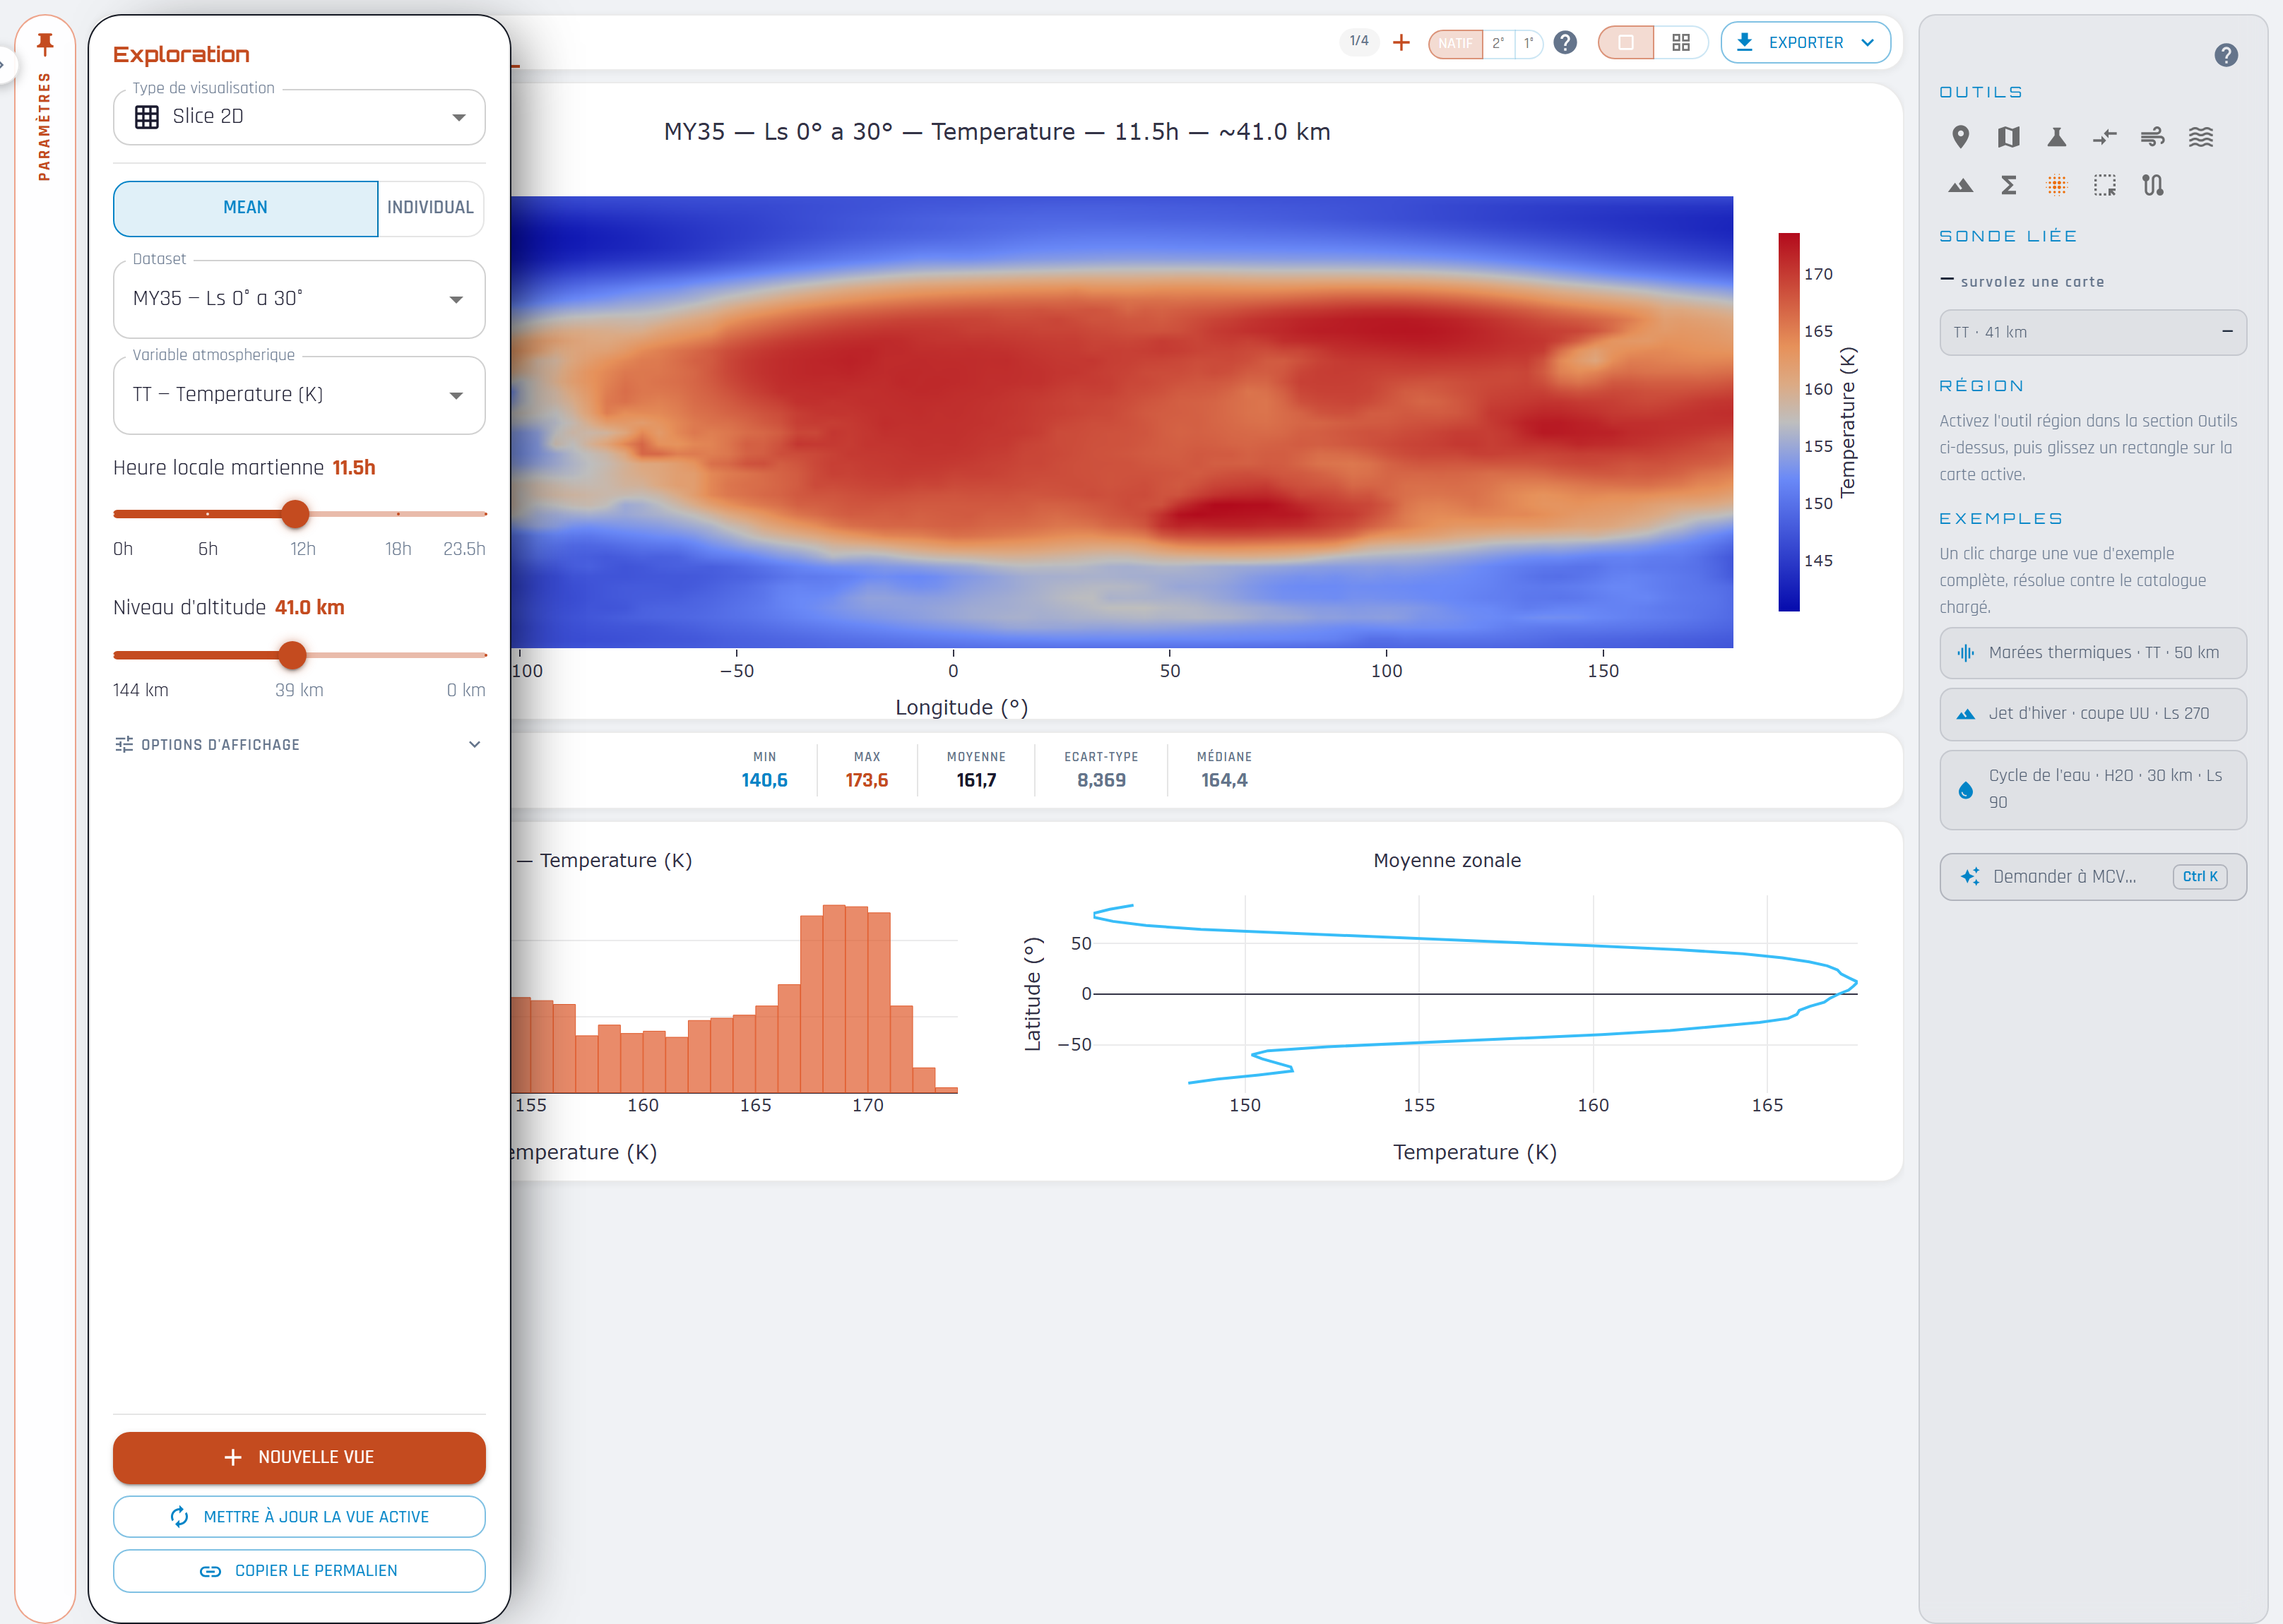
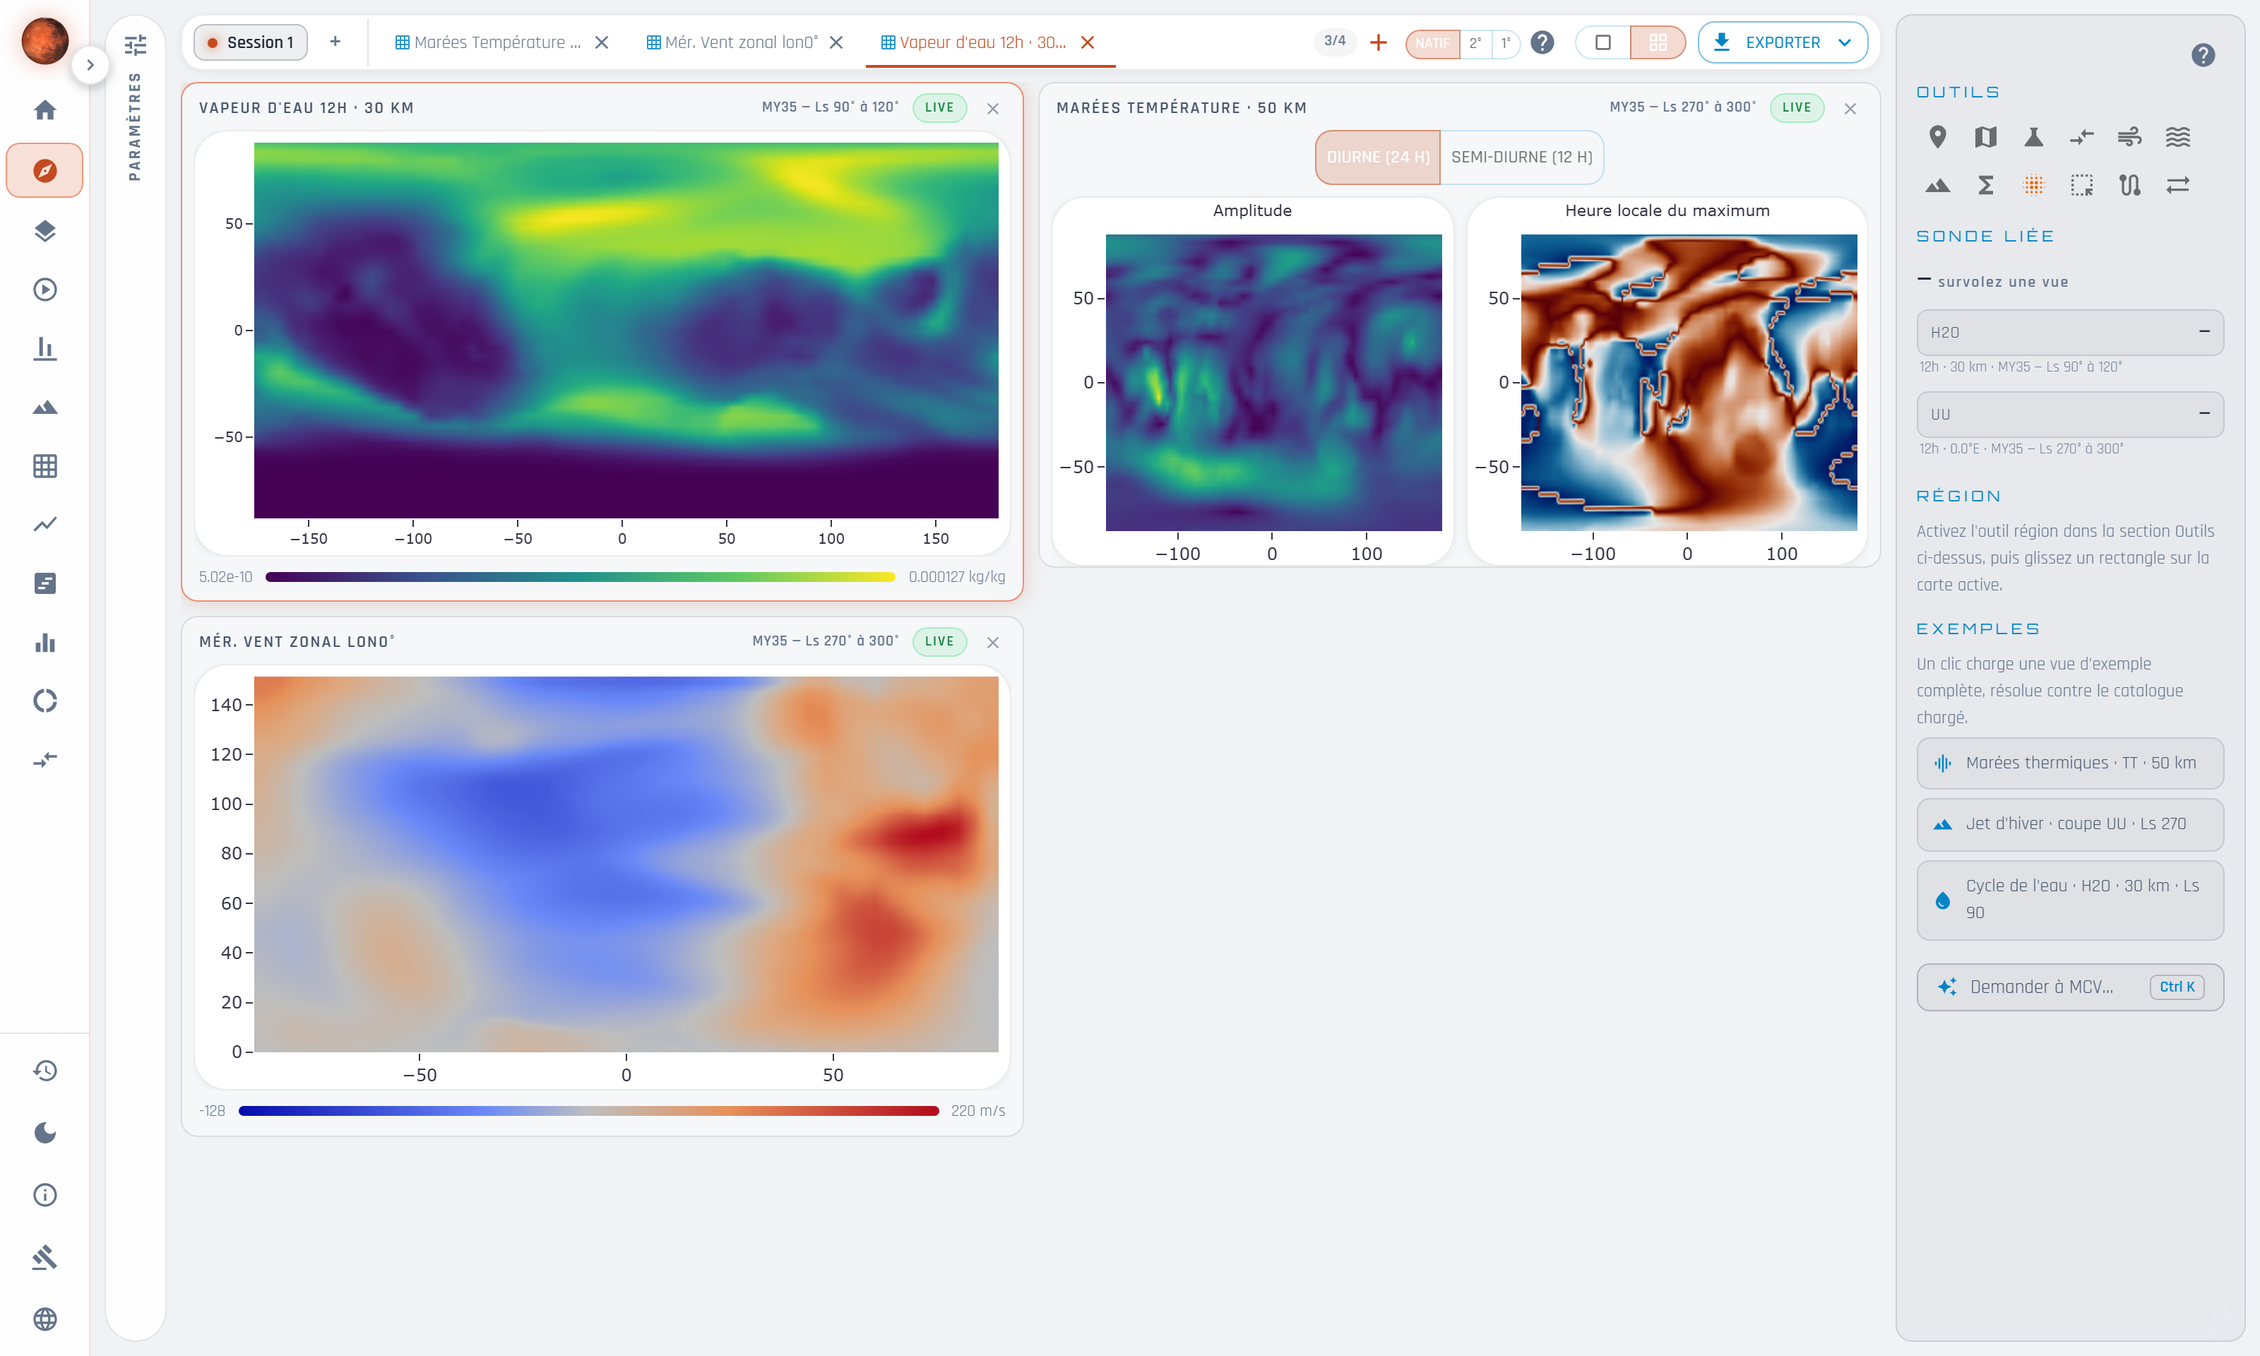
feat: update French and English README with new images and descriptions for exploration console

diff --git a/README.fr.md b/README.fr.md
@@ -6,7 +6,7 @@ Application web d'exploration des simulations atmosphériques GEM-Mars (modèle 
 
 Les fichiers sont **lus partiellement** : à chaque requête, le serveur ne lit sur disque que la tranche, le pas de temps ou le niveau demandé (`variable.read(origin, shape)`), jamais le fichier entier. Les jeux de données de plusieurs téraoctets restent sur le serveur.
 
-![Page de visualisation 2D](docs/images/vue2d.png)
+![Vue Slice 2D : carte de température à 41 km d'altitude](docs/images/vue2d.png)
 
 | Composant | Technologies |
 |---|---|
@@ -171,6 +171,10 @@ Rapport de couverture : `build/reports/jacoco/test/html/index.html`.
 
 Toutes les vues offrent permaliens, export CSV, export PNG/SVG, échelle log₁₀ et choix de palette. L'interface est disponible en anglais, français, néerlandais, allemand et espagnol.
 
+La console d'exploration réunit jusqu'à quatre vues côte à côte, reliées par une sonde partagée et une même sélection de région, ce qui permet de lire un même point sur plusieurs diagnostics à la fois :
+
+![Console d'exploration : trois vues liées disposées en grille](docs/images/explorer.png)
+
 ---
 
 ## API REST
@@ -214,7 +218,6 @@ curl "http://localhost:8080/api/data/slice?dataset=<id>&variable=TT&time=24&alti
 |---|---|
 | [DEPLOYMENT.fr.md](DEPLOYMENT.fr.md) | Installation serveur, service systemd, reverse proxy |
 | [config/application.properties](config/application.properties) | Modèle de configuration commenté |
-| [CLAUDE.md](CLAUDE.md) | Architecture, conventions de code, patterns internes |
 | [deploy/](deploy/) | Unité systemd et bloc Nginx prêts à copier, avec les trois variantes réseau |
 
 ---

diff --git a/README.md b/README.md
@@ -6,7 +6,7 @@ Web application for exploring GEM-Mars atmospheric simulations (Martian climate 
 
 Files are **read partially**: for every request the server reads only the requested slice/timestep/level from disk (`variable.read(origin, shape)`), never the whole file. Multi-terabyte datasets stay on the server.
 
-![2D visualization page](docs/images/vue2d.png)
+![2D Slice view: temperature map at 41 km altitude](docs/images/vue2d.en.png)
 
 | Component | Stack |
 |---|---|
@@ -171,6 +171,10 @@ Coverage report: `build/reports/jacoco/test/html/index.html`.
 
 All views support permalinks, CSV export, PNG/SVG export, log₁₀ scale and colorscale selection. Interfaces are available in English, French, Dutch, German and Spanish.
 
+The Explore console holds up to four views side by side, tied together by a shared probe and a common region selection, so the same point can be read across several diagnostics at once:
+
+![Explore console: three linked views laid out in a grid](docs/images/explorer.en.png)
+
 ---
 
 ## REST API
@@ -214,7 +218,6 @@ curl "http://localhost:8080/api/data/slice?dataset=<id>&variable=TT&time=24&alti
 |---|---|
 | [DEPLOYMENT.md](DEPLOYMENT.md) | Server installation, systemd service, reverse proxy |
 | [config/application.properties](config/application.properties) | Commented configuration template |
-| [CLAUDE.md](CLAUDE.md) | Architecture, code conventions, internal patterns |
 | [deploy/](deploy/) | Ready-to-copy systemd unit and Nginx block, with the three network variants |
 
 ---
